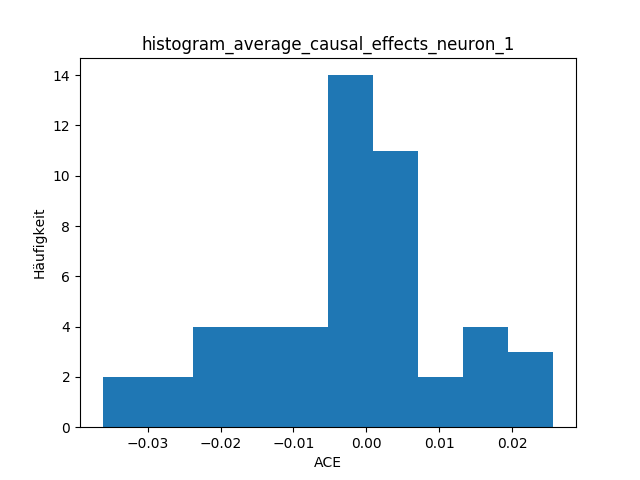
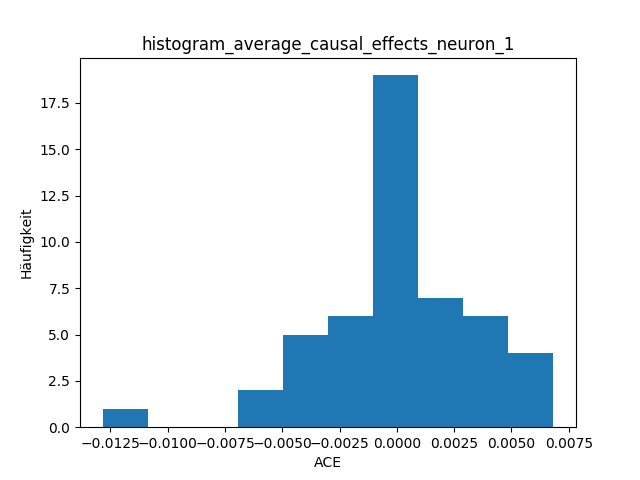
ACE incorporated into training and weights calculation

diff --git a/Project/causal.py b/Project/causal.py
@@ -7,21 +7,23 @@ import copy
 class causality(object):
     """docstring for causality."""
 
-    def __init__(self, neural_network,new_inputs,input_samples_ACE,counter):
+    def __init__(self, neural_network,new_inputs,input_samples_ACE,counter,final_causality):
         super(causality, self).__init__()
         self.neural_network = neural_network
         self.new_inputs=new_inputs
         self.input_samples_ACE=input_samples_ACE
         self.counter=counter
+        self.final_causality=final_causality
 
 
     def slicing_NN(self,input_sample):
         #slicing after the unlinearity needs to be done
         #y_train_t =torch.from_numpy(self.target_training).clone().reshape(-1, 1)
         #print(input_sample.shape)
+        self.final_causality=[]
         x_train_t =torch.from_numpy(input_sample).clone()
         for counter,layer in enumerate(self.neural_network.net):
-            if counter%2==0 and counter<len(self.neural_network.net)-1:#if counter==6:#
+            if counter%2==1 and counter<len(self.neural_network.net)-1 and counter!=0:#if counter==6:#
                 self.counter=counter
                 #print(counter)
                 self.neural_network.net.eval()
@@ -42,14 +44,18 @@ class causality(object):
 
                 self.ACE(covariance,mean,new_nn)
 
+                causality_update=self.evaluating_ACE()
 
-                self.evaluating_ACE()
+                self.final_causality.append(causality_update)
+
+                #self.final_causality.append(causality_update, dtype=object)
                 #if counter==0:
-                #    self.plotting_ACE()
+                #self.plotting_ACE()
                 #print("self.new_inputs shape")
                 #print(self.new_inputs.detach().numpy().shape)
                 #print(mean)
                 #print(covariance)
+        self.final_causality=np.array(self.final_causality,dtype=object)
 
     def ACE(self,covariance,mean,neural_net):
         torch.set_default_dtype(torch.float64)
@@ -133,6 +139,18 @@ class causality(object):
         minus_border_mean=np.percentile(medians,20)
         plus_border_variances=np.percentile(variances,80)
         minus_border_variances=np.percentile(variances,20)
+
+        #medians[medians>=plus_border_mean]=0
+        #medians[medians<plus_border_mean]=1
+        #medians[medians<=minus_border_mean]=0
+        #medians[medians>minus_border_mean]=1
+        #print("get causality")
+        #print(plus_border_mean)
+        #print(minus_border_mean)
+        #print(medians)
+
+        causality_update = [0 if med>=plus_border_mean or med<=minus_border_mean else 1 for med in medians]
+        #print(medians)
         #point=np.median(medians)
         #print(point)
         #print(medians.shape)
@@ -150,6 +168,7 @@ class causality(object):
     #        print("causal effects")
     #        print(causal_effects)
         #self.plotting_ACE_mean_var(medians,variances)
+        return causality_update
 
     def plotting_ACE_mean_var(self,medians,variances):
         plt.hist(medians)

diff --git a/Project/NeuralNet_original.py b/Project/NeuralNet_original.py
@@ -2,7 +2,6 @@ import torch
 import torch.nn as nn
 import numpy  as np
 import matplotlib.pyplot as plt
-import causal
 
 class neural_network(object):
     """docstring for neural_network."""
@@ -60,10 +59,6 @@ class neural_network(object):
         stepsave = []
         test_loss_training=[]
         for i in range(self.epochs):
-
-            placeholderNet=self.net
-            placeholderNet.eval()
-
             self.net.train()
             y_hat = self.net(x_train_t)
             loss = self.criterion(y_train_t,self.net(x_train_t))
@@ -81,60 +76,7 @@ class neural_network(object):
             if i > 0 and i % 10 == 0:
                 print('Epoch %d, loss = %g' % (i, loss))
 
-            #print("weight experiment")
-
-            #print(len(self.net[0].weight.grad))
-            #print(len(self.net[0].weight.grad[0]))
-            #print(len(self.net.bias.grad[0]))
-            #print(np.array(self.net[0].bias.grad).shape)
-
-            #print(len(self.net[6].weight.grad))
-            #print(len(self.net[6].weight.grad[0]))
-            #print(len(self.net.bias.grad[0]))
-            #print(np.array(self.net[6].bias.grad).shape)
-
-            #self.net[0].weight=torch.nn.Parameter(torch.from_numpy(np.array(0)))
-            #print(len(self.net[2].weight[0]))
-            #print(self.net[0].weight.detach().numpy().shape)
-
-            self.selection_weights(placeholderNet)
-
-
-
         return loss_training,test_loss_training
-
-
-    def selection_weights(self,placeholderNet):
-        causal_binary = self.ACE_execution()
-        #self.net[2].weight
-        for indx,binary in enumerate(causal_binary):
-            #i=indx*2
-            #print(i)
-            #print(indx)
-
-            weight_update=np.multiply(self.net[indx*2].weight.detach().numpy(), np.array(binary)[:, np.newaxis])
-            inverted_binary=1-np.array(binary)
-            weighted_keep=np.multiply(placeholderNet[indx*2].weight.detach().numpy(), inverted_binary[:, np.newaxis])
-
-            new_weights=weight_update+weighted_keep
-
-            #print("shape weights new")
-            #print(self.net[indx*2].weight.detach().numpy().shape)
-            #print("shape weights update")
-            #print(weight_update.shape)
-            #print("shape weights original")
-            #print(placeholderNet[indx*2].weight.detach().numpy().shape)
-            #print("shape weights keep")
-            #print(weighted_keep.shape)
-            #print("shape weights final")
-            #print(new_weights.shape)
-    #def overwrite_weights(self):
-    #self.net[0].weight=torch.nn.Parameter(torch.from_numpy(np.array(0)))
-
-    def ACE_execution(self):
-        causal_test=causal.causality(self,0,0,0,0)
-        causal_test.slicing_NN(self.inputs_training)
-        return causal_test.final_causality
 
     def testing_training(self,loss_training,test_loss_training,figure_name):
         sl =np.array(loss_training)

diff --git a/Project/main.py b/Project/main.py
@@ -50,10 +50,17 @@ loss_training,test_loss_training=neural.training()
 #test neural net
 loss_test=neural.testing()
 
-causal_test=causal.causality(neural,0,0,0)
+#causal_test=causal.causality(neural,0,0,0,0)
 
-causal_test.slicing_NN(get_data.inputs_training)#for us only training values as we are covering ACE in training not after training
+#causal_test.slicing_NN(get_data.inputs_training)#for us only training values as we are covering ACE in training not after training
 
+#print("final causality")
+#print(causal_test.final_causality)
+
+#print("shapes")
+#for row in causal_test.final_causality:
+#    element=np.array(row)
+#    print(len(row))
 #print(neural.net[0].weight.size())
 #print(neural.net[0].bias.size())
 #print(neural.net[0:5])#abscheiden des netzes
